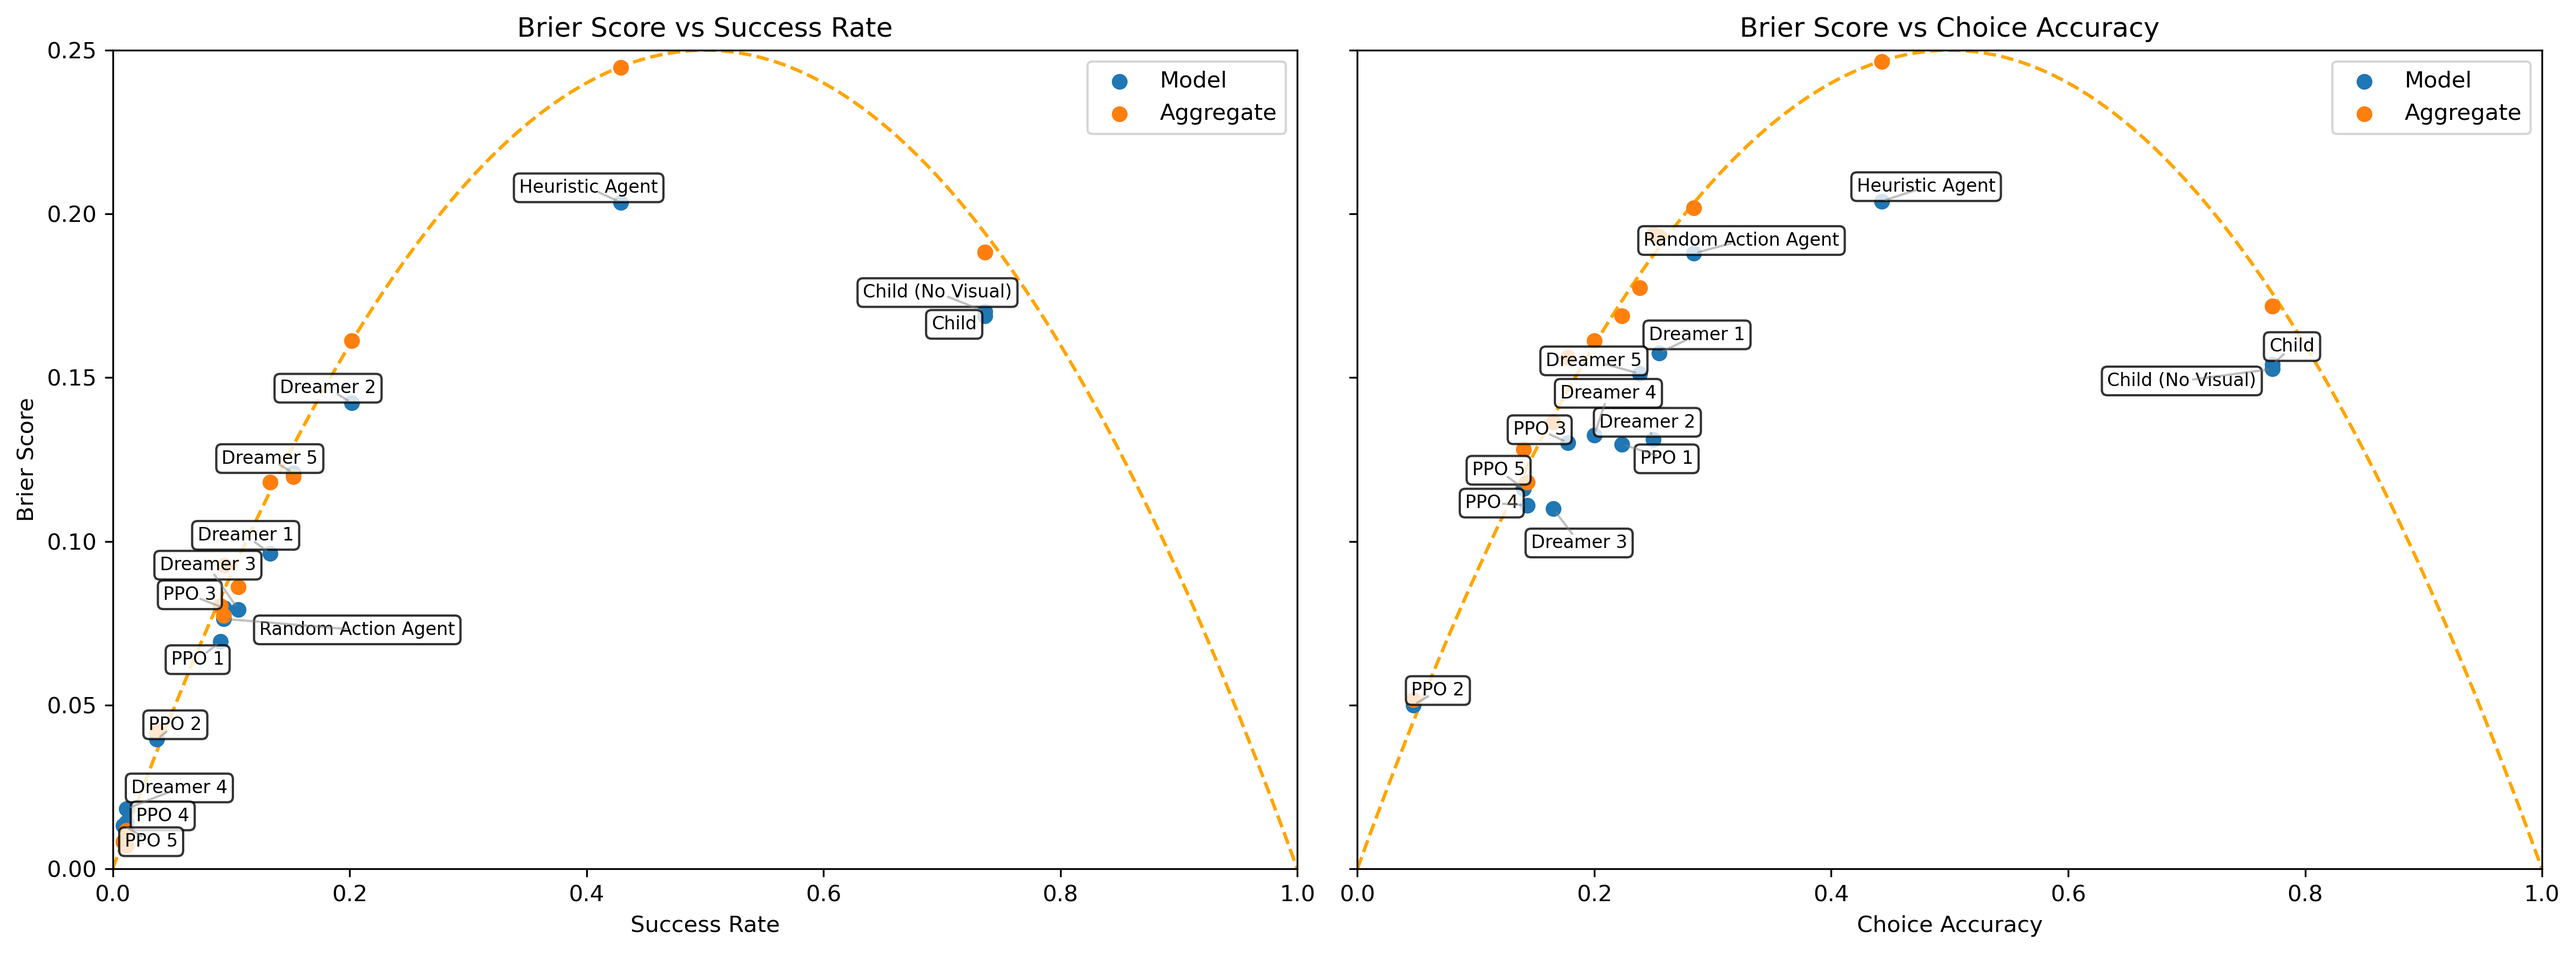
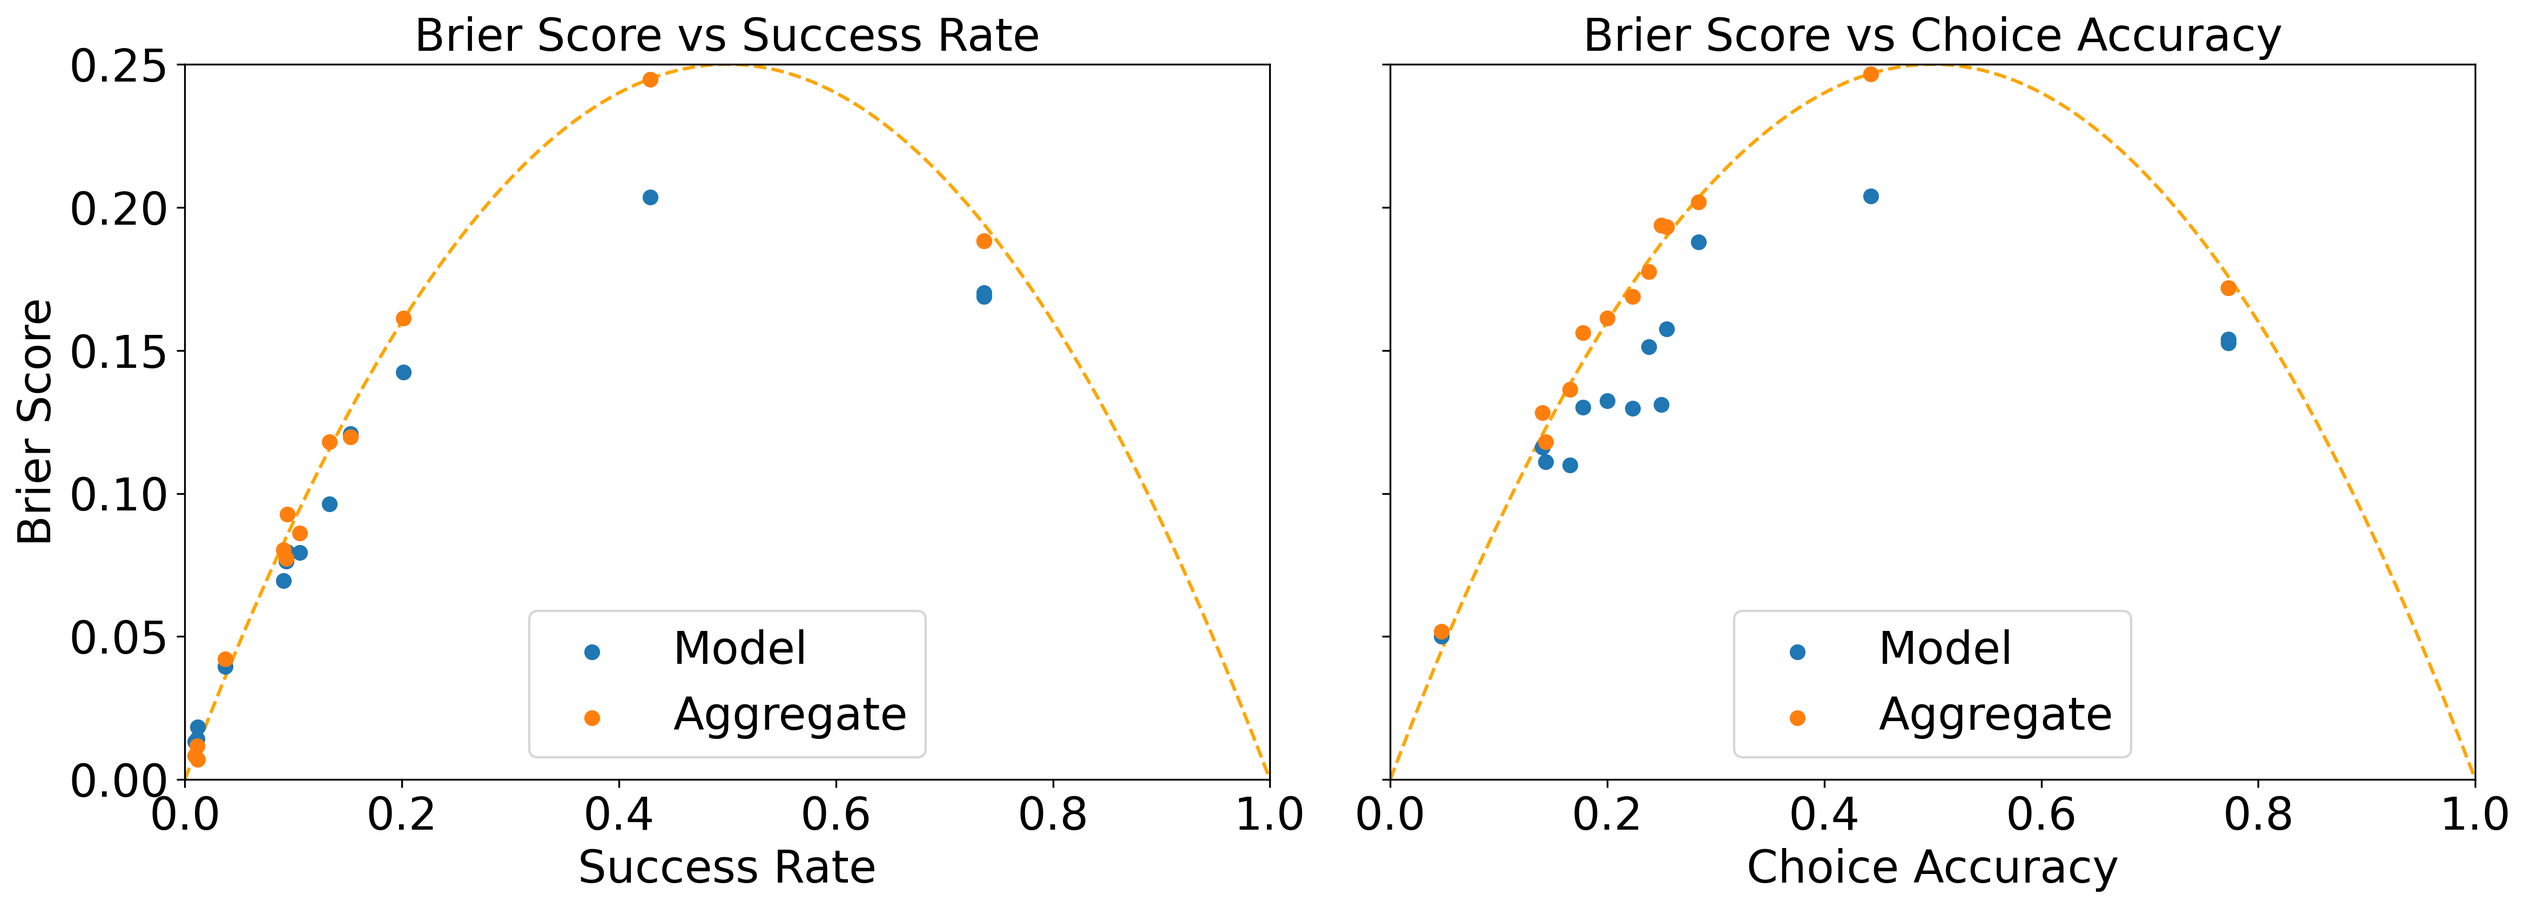
Update plotting

diff --git a/object_permanence_voudouris2024/plotting.py b/object_permanence_voudouris2024/plotting.py
@@ -8,8 +8,18 @@ try:
 except ImportError:
     adjust_text = None
 
+plt.rcParams.update({
+    'font.size': 20,       # Default text size
+    'axes.titlesize': 20,  # Subplot title
+    'axes.labelsize': 20,  # X and Y labels
+    'xtick.labelsize': 20, # X tick labels
+    'ytick.labelsize': 20, # Y tick labels
+    'legend.fontsize': 20, # Legend
+    'figure.titlesize': 20 # Figure suptitle
+})
 
-def create_brier_score_plot(save_path=None):
+
+def create_brier_score_plot(save_path=None, annotate=False):
     # Load the CSV data into a pandas DataFrame
     df = pd.read_csv("AgentResultsAblated.csv")
 
@@ -32,7 +42,7 @@ def create_brier_score_plot(save_path=None):
     fig, axes = plt.subplots(1, 2, figsize=(16, 6), sharey=True)
 
     # Stylistic parameters for label boxes
-    bbox_props = dict(boxstyle='round,pad=0.3', fc='white', alpha=0.8)
+    bbox_props = dict(boxstyle='round,pad=0.3', fc='white', alpha=0.8) if annotate else None
 
     # -------- Success panel --------
     ax = axes[0]
@@ -48,22 +58,23 @@ def create_brier_score_plot(save_path=None):
     ax.grid(False)
 
     # Add labels only for model points with rounded bounding boxes
-    texts = []
-    for xi, yi, label in zip(x_success, y_model_success, labels):
-        texts.append(ax.text(
-            xi, yi, label,
-            fontsize=8, ha='right', va='bottom', zorder=3,
-            bbox=bbox_props
-        ))
-    if adjust_text:
-        adjust_text(texts, 
-                    ax=ax, 
-                    arrowprops=dict(arrowstyle='-', color='gray', alpha=0.5, shrinkA=5),
-                    autoalign='y',
-                    force_text=(0, 0.5),
-                    expand_points=(1.5,1.5),
-                    expand_text=(1.05, 1.05),
-                    )
+    if annotate:
+        texts = []
+        for xi, yi, label in zip(x_success, y_model_success, labels):
+            texts.append(ax.text(
+                xi, yi, label,
+                fontsize=8, ha='right', va='bottom', zorder=3,
+                bbox=bbox_props
+            ))
+        if adjust_text:
+            adjust_text(texts, 
+                        ax=ax, 
+                        arrowprops=dict(arrowstyle='-', color='gray', alpha=0.5, shrinkA=5),
+                        autoalign='y',
+                        force_text=(0, 0.5),
+                        expand_points=(1.5,1.5),
+                        expand_text=(1.05, 1.05),
+                        )
         
     # -------- Choice panel --------
     ax = axes[1]
@@ -78,22 +89,23 @@ def create_brier_score_plot(save_path=None):
     ax.grid(False)
 
     # Add labels only for model points with rounded bounding boxes
-    texts = []
-    for xi, yi, label in zip(x_choice, y_model_choice, labels):
-        texts.append(ax.text(
-            xi, yi, label,
-            fontsize=8, ha='right', va='bottom', zorder=3,
-            bbox=bbox_props
-        ))
-    if adjust_text:
-        adjust_text(texts, 
-                    ax=ax, 
-                    arrowprops=dict(arrowstyle='-', color='gray', alpha=0.5, shrinkA=5),
-                    autoalign='y',
-                    force_text=(0, 0.5),
-                    expand_points=(1.5,1.5),
-                    expand_text=(1.05, 1.05),
-                    )
+    if annotate:
+        texts = []
+        for xi, yi, label in zip(x_choice, y_model_choice, labels):
+            texts.append(ax.text(
+                xi, yi, label,
+                fontsize=8, ha='right', va='bottom', zorder=3,
+                bbox=bbox_props
+            ))
+        if adjust_text:
+            adjust_text(texts, 
+                        ax=ax, 
+                        arrowprops=dict(arrowstyle='-', color='gray', alpha=0.5, shrinkA=5),
+                        autoalign='y',
+                        force_text=(0, 0.5),
+                        expand_points=(1.5,1.5),
+                        expand_text=(1.05, 1.05),
+                        )
     plt.tight_layout()
 
     if save_path:

diff --git a/basic_measurement_layout/plotting.py b/basic_measurement_layout/plotting.py
@@ -5,6 +5,8 @@ import glob
 import os
 import seaborn as sns # Import seaborn for better heatmap visualization
 
+sns.set_context("talk", font_scale=1.4)
+
 def load_and_prepare_data(folder_path="."):
     """
     Load all CSV files matching the pattern and return a combined DataFrame.
@@ -144,15 +146,18 @@ def create_performance_heatmap(df, save_path=None):
 
     plt.figure(figsize=(10, 8))
     sns.heatmap(
-        heatmap_data, annot=True, fmt=".2f", cmap="viridis", linewidths=.5,
-        cbar_kws={'label': 'Average Final Reward'}, annot_kws={"fontsize": 12}
+        heatmap_data,
+        annot=True, fmt=".2f",
+        cmap="viridis", linewidths=.5,
+        cbar_kws={'label': 'Average Final Reward'},
+        annot_kws={"fontsize": 16}   # numbers inside cells
     )
 
     plt.title('Average Agent Performance Heatmap', fontsize=18, fontweight='bold')
-    plt.xlabel('Navigation Noise', fontsize=14)
-    plt.ylabel('Pixel Input', fontsize=14)
-    plt.xticks(rotation=45, ha='right', fontsize=12)
-    plt.yticks(rotation=0, fontsize=12)
+    plt.xlabel('Navigation Noise', fontsize=18)
+    plt.ylabel('Pixel Input', fontsize=18)
+    plt.xticks(rotation=45, ha='right', fontsize=16)
+    plt.yticks(rotation=0, fontsize=16)
 
     plt.tight_layout()
     if save_path:
@@ -173,12 +178,12 @@ def create_brier_score_plot(save_path=None):
     y_expected_brier = x_trend * (1 - x_trend)
     plt.plot(x_trend, y_expected_brier, color='orange', linestyle='--', label='_nolegend_', zorder=1)
 
-    plt.xlabel('Success Rate', fontsize=14)
-    plt.ylabel('Brier Score', fontsize=14)
+    plt.xlabel('Success Rate', fontsize=16)
+    plt.ylabel('Brier Score', fontsize=16)
     plt.title('Brier Score vs. Success Rate', fontsize=18)
-    plt.xticks(fontsize=12)
-    plt.yticks(fontsize=12)
-    plt.legend(fontsize=12)
+    plt.xticks(fontsize=14)
+    plt.yticks(fontsize=14)
+    plt.legend(fontsize=14)
 
     plt.grid(False)
     plt.xlim(0, 1)
